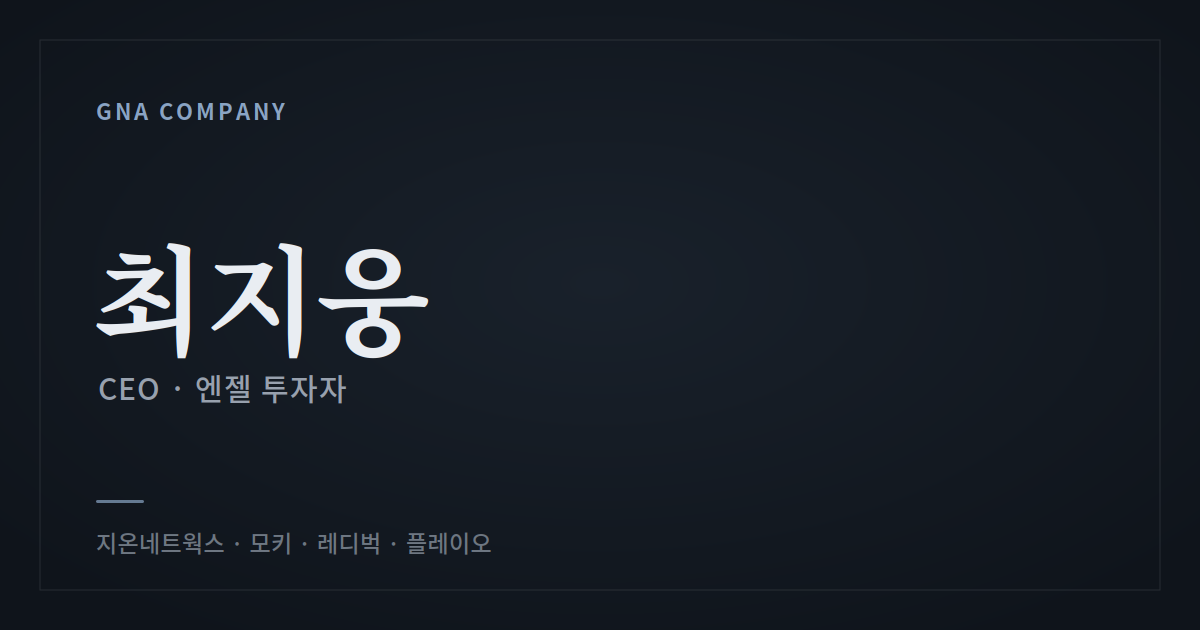
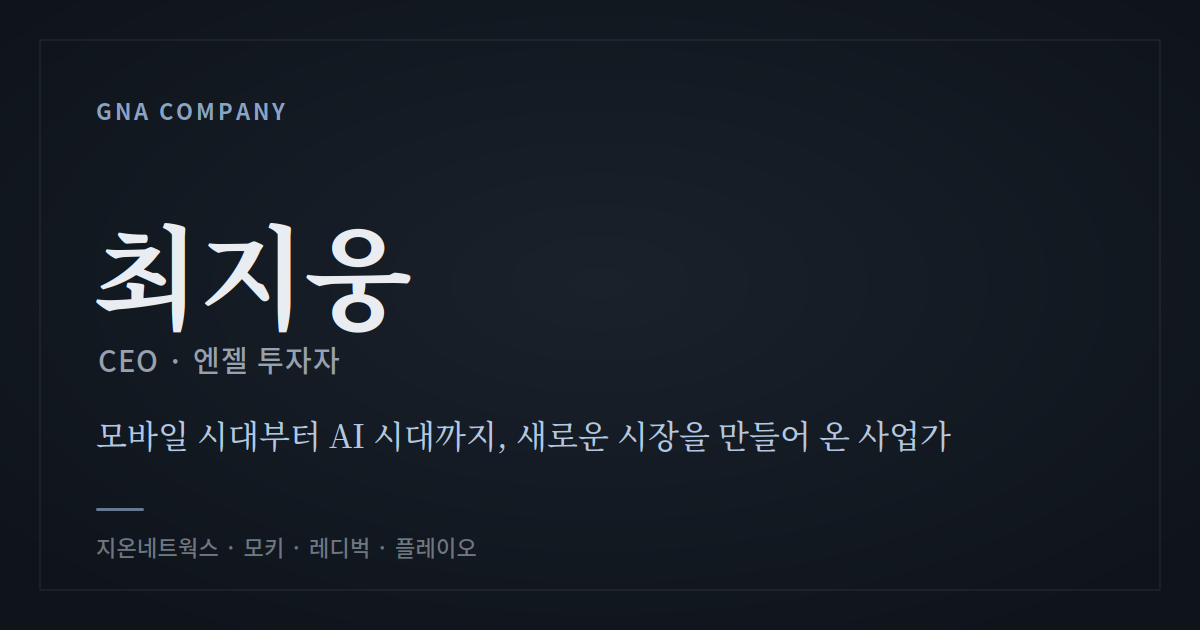
Add files via upload

diff --git a/index.html b/index.html
@@ -4,12 +4,12 @@
 <meta charset="UTF-8">
 <meta name="viewport" content="width=device-width, initial-scale=1.0">
 <title>최지웅 CEO 소개</title>
-<meta name="description" content="시대를 앞서 읽고 새로운 시장을 만들어 온 25년의 사업가. 지온네트웍스·모키·플레이오 창업, 30여 개 기업 엔젤 투자.">
+<meta name="description" content="모바일 시대부터 AI 시대까지 새로운 시장을 만들어 온 사업가. 지온네트웍스·모키·플레이오 창업, 30여 개 기업 엔젤 투자.">
 
 <!-- Open Graph (카카오톡·페이스북·링크드인 미리보기) -->
 <meta property="og:type" content="website">
-<meta property="og:title" content="최지웅 CEO | 시대를 앞서 읽고 새로운 시장을 만들어 온 사업가">
-<meta property="og:description" content="인터넷·모바일부터 AI 시대까지, 25년간 새로운 시장을 개척해 온 연쇄 창업가이자 엔젤 투자자. 지온네트웍스·모키·플레이오.">
+<meta property="og:title" content="최지웅 CEO | 모바일 시대부터 AI 시대까지 새로운 시장을 만들어 온 사업가">
+<meta property="og:description" content="모바일부터 AI 시대까지, 새로운 시장을 개척해 온 연쇄 창업가이자 엔젤 투자자. 지온네트웍스·모키·플레이오.">
 <meta property="og:image" content="https://gna-people.github.io/ceo-profile/og-image.png">
 <meta property="og:image:width" content="1200">
 <meta property="og:image:height" content="630">
@@ -19,8 +19,8 @@
 
 <!-- Twitter Card -->
 <meta name="twitter:card" content="summary_large_image">
-<meta name="twitter:title" content="최지웅 CEO | 시대를 앞서 읽고 새로운 시장을 만들어 온 사업가">
-<meta name="twitter:description" content="인터넷·모바일부터 AI 시대까지, 25년간 새로운 시장을 개척해 온 연쇄 창업가이자 엔젤 투자자.">
+<meta name="twitter:title" content="최지웅 CEO | 모바일 시대부터 AI 시대까지 새로운 시장을 만들어 온 사업가">
+<meta name="twitter:description" content="모바일부터 AI 시대까지, 새로운 시장을 개척해 온 연쇄 창업가이자 엔젤 투자자.">
 <meta name="twitter:image" content="https://gna-people.github.io/ceo-profile/og-image.png">
 
 <link rel="preconnect" href="https://fonts.googleapis.com">
@@ -66,7 +66,8 @@
   .hero-eyebrow{font-size:13px;letter-spacing:.26em;text-transform:uppercase;color:var(--accent);font-weight:600;margin-bottom:34px;
     display:flex;align-items:center;gap:16px;}
   .hero-eyebrow::before{content:"";width:44px;height:1px;background:var(--accent);}
-  .hero-headline{font-family:var(--serif);font-weight:700;font-size:clamp(34px,6vw,76px);line-height:1.2;letter-spacing:-.025em;color:var(--txt);word-break:keep-all;}
+  .hero-headline{font-family:var(--serif);font-weight:700;font-size:clamp(34px,6vw,72px);line-height:1.28;letter-spacing:-.01em;color:var(--txt);word-break:keep-all;text-indent:0;}
+  .hero-headline .lead-line{display:block;font-family:var(--serif);font-size:clamp(16px,1.9vw,22px);font-weight:500;color:var(--accent-bright);letter-spacing:-.01em;margin-bottom:12px;line-height:1.5;text-indent:0;}
   .hero-headline .hl{color:var(--accent-bright);}
   .hero-headline .thin{font-weight:400;color:var(--txt-soft);}
   .hero-meta{margin-top:54px;display:flex;align-items:flex-end;justify-content:space-between;flex-wrap:wrap;gap:30px;}
@@ -180,9 +181,8 @@
   <div class="hero-main">
     <div class="wrap hero-inner">
       <h1 class="hero-headline">
-        시대를 앞서 읽고,<br>
-        <span class="hl">새로운 시장을 만들어&nbsp;온</span><br>
-        <span class="thin">25년의 사업가</span>
+        <span class="lead-line">모바일 시대부터 AI 시대까지,</span>
+        <span class="hl">새로운 시장을 만들어&nbsp;온 사업가</span>
       </h1>
       <div class="hero-meta">
         <div class="hero-id">
